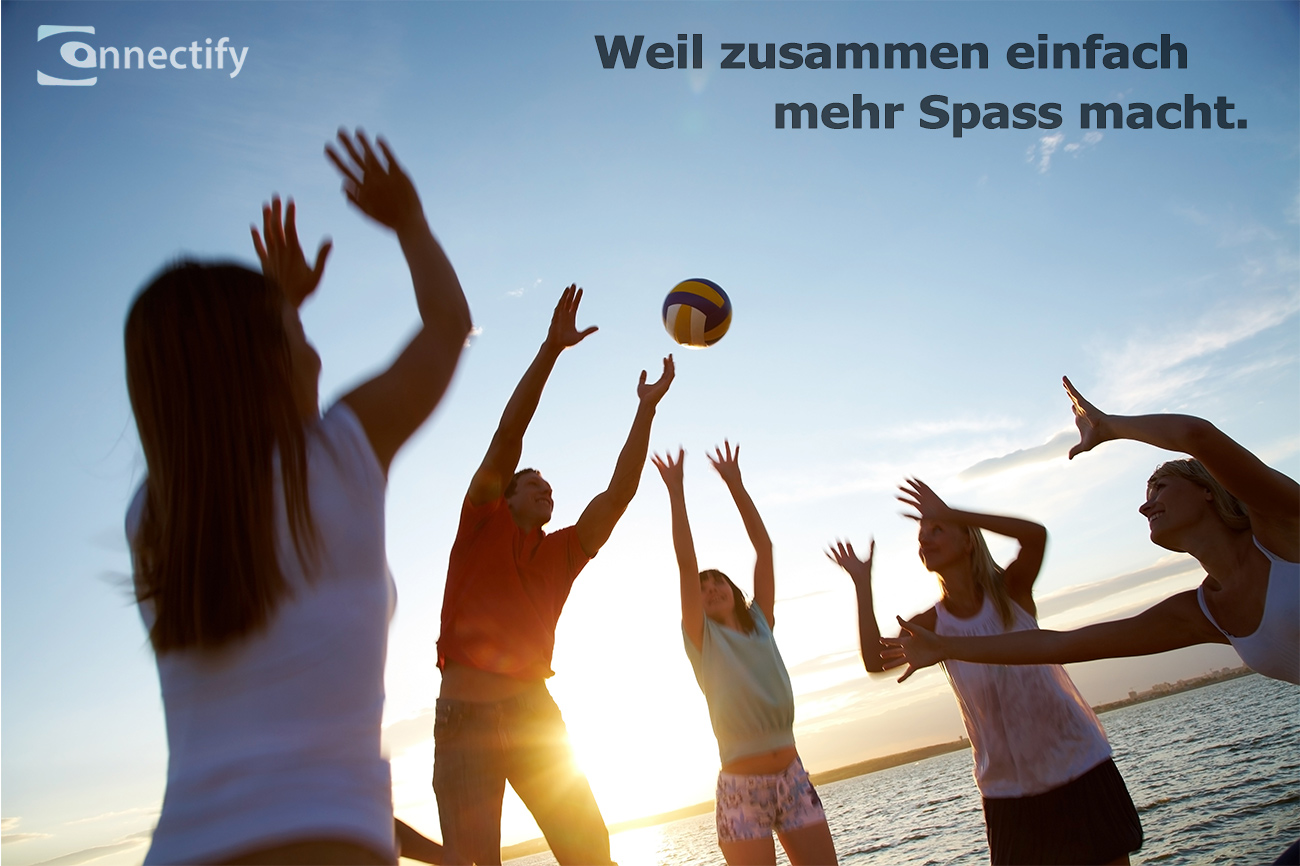
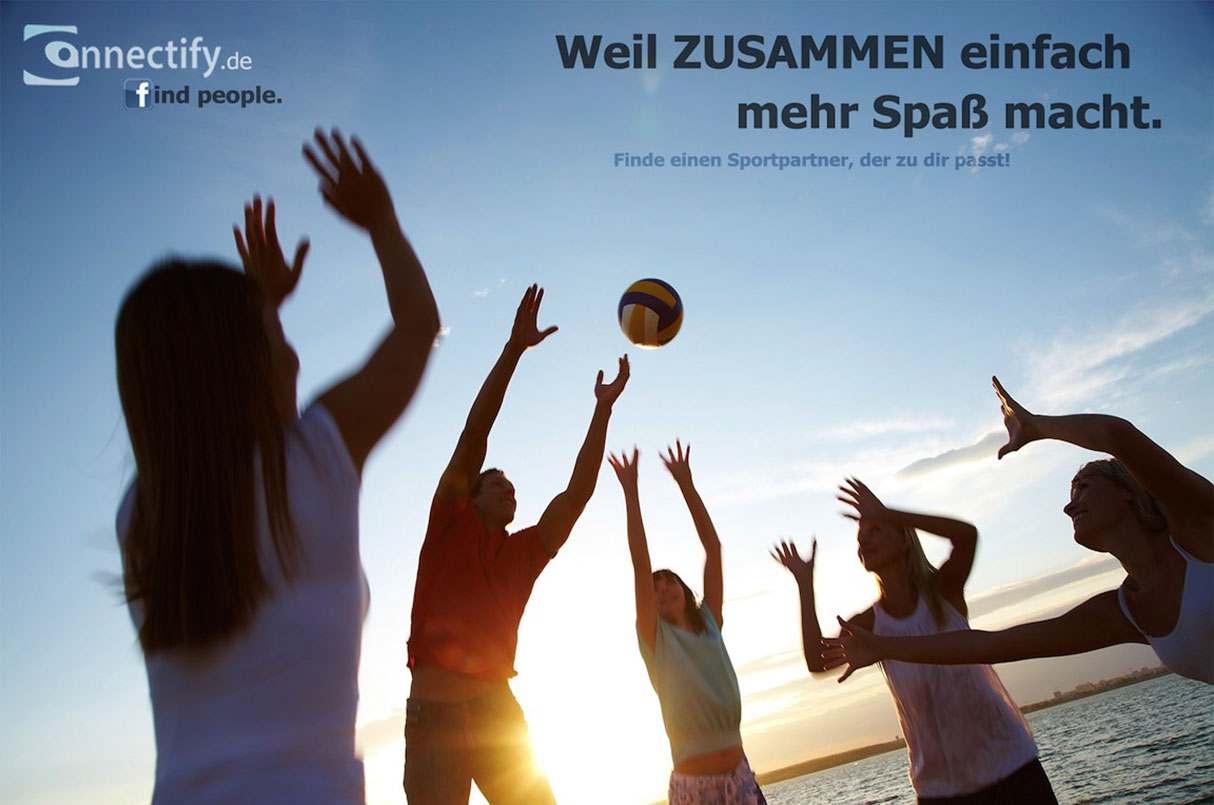
lotsof bugfixes for start, groupbutton, groupexplainbeginning, aktivitaetbug, cities engl names, more sports

diff --git a/app/assets/stylesheets/custom.css.scss b/app/assets/stylesheets/custom.css.scss
@@ -451,31 +451,56 @@ div[class=ui-select]:nth-child(5), div[class=ui-select]:nth-child(6){
 			padding-bottom: 10px;}
 }
 
+.sorry{
+	color: #ccc;
+	border: 1px dotted;
+	padding: 5px;
+	width: 200px;
+	font-size: 0.8em;
+	line-height: 17px;
+}
+
+.sorry_micropost {
+	float: left;
+	margin-right: 10px;
+	margin-left: 65px;
+	position: relative;
+	bottom: -10px;
+}
+
+.sorry_micropost2 {
+	float: left;
+	margin-right: 10px;
+	margin-left: 65px;
+	position: relative;
+	bottom: 6px;
+}
 
 /* Helptext for Beginners */
 
 #helptext {
+	.small{font-size: 0.7em;}
 	float: left;
 	margin-right: 90px;
 	font-size: 0.8em;
 	#helpinnertext {
 		position: relative;
-		top: -1350px;
-		left: 150px;
+		top: 10px;
+		left: 34px;
 		#help_wall {
-			position: absolute;
-			margin-top: -110px;
+			position: relative;
+			
 			margin-left: 40px;
 				h2 {
 				margin-bottom: 0px;
 				}
 				img {
 					position: absolute;
-					left: 186px;
+					left: 293px;
 					top: -4px;
 				}
 		}
-		#help_place {
+/*		#help_place {
 			margin-top: 80px;
 			margin-left: 25px;
 		}
@@ -496,7 +521,7 @@ div[class=ui-select]:nth-child(5), div[class=ui-select]:nth-child(6){
 		}
 		#help_submit {
 			margin-top: 230px;
-		}
+		} */
 	}
 }
 

diff --git a/app/assets/javascripts/facebook.js b/app/assets/javascripts/facebook.js
@@ -42,10 +42,10 @@ $(function() {
           to: user_uid,
           from: user_uid,
           link: 'https://connectify.herokuapp.com/micropost/'+micropost,
-          picture: 'https://fbrell.com/f8.jpg',
-          name: 'schau dir das Post-it auf Connectify an...',
+          picture: '',
+          name: 'schau dir das Micropost auf Connectify an...',
           caption: caption_text,
-          description: 'Connectify - find the right people'
+          description: 'Connectify.de - finde einen Sportpartner, der zu dir passt'
         };
 
         function callback(response) {

diff --git a/app/helpers/application_helper.rb b/app/helpers/application_helper.rb
@@ -23,7 +23,22 @@ module ApplicationHelper
 						[t('home.micropost.'+'Freiburg'), "Freiburg"],
 						[t('home.micropost.'+'Munich'), "Munich"],
 						[t('home.micropost.'+'Konstanz'), "Konstanz"],
-						[t('home.micropost.'+'Berlin'), "Berlin"]
+						[t('home.micropost.'+'Berlin'), "Berlin"],
+						[t('home.micropost.'+'Wuerzburg'), "Wuerzburg"],
+						[t('home.micropost.'+'Muenster'), "Muenster"],
+						[t('home.micropost.'+'Goettingen'), "Goettingen"],
+						[t('home.micropost.'+'Cologne'), "Cologne"],
+						[t('home.micropost.'+'Duesseldorf'), "Duesseldorf"],
+						[t('home.micropost.'+'Mannheim'), "Mannheim"],
+						[t('home.micropost.'+'Heidelberg'), "Heidelberg"],
+						[t('home.micropost.'+'Freiburg'), "Freiburg"],
+						[t('home.micropost.'+'Leipzig'), "Leipzig"],
+						[t('home.micropost.'+'Halle'), "Halle"],
+						[t('home.micropost.'+'Potsdam'), "Potsdam"],
+						[t('home.micropost.'+'Rostock'), "Rostock"],
+						[t('home.micropost.'+'Kiel'), "Kiel"],
+						[t('home.micropost.'+'Ingolstadt'), "Ingolstadt"],
+						[t('home.micropost.'+'Frankfurt'), "Frankfurt"]
 				]
 
 	end
@@ -33,7 +48,7 @@ module ApplicationHelper
       @place = Array.new(@city.length)
 
       for city in @city
-      	unless city == nil || city == "" || city == "Karlsruhe" #TODO:Karlsruhe raus!
+      	unless city == nil || city == "" #TODO:Karlsruhe raus!
       		@place.push([t('home.micropost.'+city.place), city.place])
       		@place.shift
       	end	
@@ -44,7 +59,32 @@ module ApplicationHelper
 	end
 
 	def sportlist
-		Array[[t('home.micropost.beachvolleyball'), "beachvolleyball"], [t('home.micropost.biking'), "biking"], [t('home.micropost.bouldering'), "bouldering"], [t('home.micropost.climbing'), "climbing"], [t('home.micropost.hiking'), "hiking"], [t('home.micropost.jogging'), "jogging"], [t('home.micropost.martialarts'), "martialarts"], [t('home.micropost.nordicwalking'), "nordicwalking"], [t('home.micropost.pilates'), "pilates"], [t('home.micropost.skiing'), "skiing"], [t('home.micropost.slacklining'), "slacklining"], [t('home.micropost.soccer'), "soccer"], [t('home.micropost.surfing'), "surfing"], [t('home.micropost.swimming'), "swimming"], [t('home.micropost.volleyball'), "volleyball"], [t('home.micropost.windsurfing'), "windsurfing"], [t('home.micropost.workout'), "workout"], [t('home.micropost.yoga'), "yoga"], [t('home.micropost.other'), "other"]]
+		Array[[t('home.micropost.beachvolleyball'), "beachvolleyball"],
+		[t('home.micropost.dancing'), "dancing"],
+		[t('home.micropost.archery'), "archery"],
+		[t('home.micropost.chess'), "chess"],
+		[t('home.micropost.parkour'), "parkour"],
+		[t('home.micropost.featherball'), "featherball"],
+		[t('home.micropost.tablesoccer'), "tablesoccer"],
+		[t('home.micropost.tabletennis'), "tabletennis"],
+		[t('home.micropost.biking'), "biking"], 
+		[t('home.micropost.bouldering'), "bouldering"],
+		[t('home.micropost.climbing'), "climbing"],
+		[t('home.micropost.hiking'), "hiking"],
+		[t('home.micropost.jogging'), "jogging"],
+		[t('home.micropost.martialarts'), "martialarts"],
+		[t('home.micropost.nordicwalking'), "nordicwalking"],
+		[t('home.micropost.pilates'), "pilates"],
+		[t('home.micropost.skiing'), "skiing"],
+		[t('home.micropost.slacklining'), "slacklining"],
+		[t('home.micropost.soccer'), "soccer"],
+		[t('home.micropost.surfing'), "surfing"],
+		[t('home.micropost.swimming'), "swimming"],
+		[t('home.micropost.volleyball'), "volleyball"],
+		[t('home.micropost.windsurfing'), "windsurfing"],
+		[t('home.micropost.workout'), "workout"],
+		[t('home.micropost.yoga'), "yoga"],
+		[t('home.micropost.other'), "other"]]
 	end
 
 	#helps to decide whether the hobby takes place from or in a City

diff --git a/app/mailers/user_mailer.rb b/app/mailers/user_mailer.rb
@@ -17,7 +17,7 @@ class UserMailer < ActionMailer::Base
 
   	mail(:to => user.email,
          :subject => "Willkommen bei Connectify",
-         :body => "Hallo "+user.name+"! Du hast dich erfolgreich bei Connectify eingeloggt und kannst ab sofort loslegen und dein erstes Micropost schreiben. Du weisst nicht was das ist? Dann lies dir die Einfuehrung durch! Es ist ganz einfach. <br><br> Viel Spass dabei!")
+         :body => "Hallo "+user.name+"! Du hast dich erfolgreich bei Connectify eingeloggt und kannst ab sofort loslegen und dein erstes Micropost schreiben. Du weisst nicht was das ist? Dann lies dir die Einfuehrung durch! Es ist ganz einfach. Viel Spass dabei!")
   end
 
   def comment_email(micropost, comment)
@@ -25,23 +25,23 @@ class UserMailer < ActionMailer::Base
   	@micropost = micropost
   	mail(
       :to => micropost.user.email, 
-      :subject => "Connectfiy - Your Post has a new comment",
-      :body => "Hallo "+micropost.user.name+"!"+comment.body
+      :subject => "Connectify - Dein Micropost hat einen neuen Kommentar",
+      :body => "Hallo "+micropost.user.name+"! "+comment.body
     )
 
     micropost.user.followers.each do |user|
       mail(
         :to => user.email,
-        :subject => "Connectfiy - Your abboniertes Post has a new comment",
-        :body => "Hallo "+user.name+"!"+comment.body
+        :subject => "Connectify - Ein Micropost hat ein neuen Kommentar",
+        :body => "Hallo "+user.name+"! "+comment.body
       )
     end
 
     micropost.mindposts.each do |mindpost|
       mail(
         :to => mindpost.user.email,
-        :subject => "Connectfiy - Your gemerktes Post has a new comment",
-        :body => "Hallo "+mindpost.user.name+"!"+comment.body
+        :subject => "Connectify - Ein Micropost hat ein neuen Kommentar",
+        :body => "Hallo "+mindpost.user.name+"! "+comment.body
       )
     end
   end

diff --git a/app/mailers/registration_mailer.rb b/app/mailers/registration_mailer.rb
@@ -19,7 +19,7 @@ def welcome_email(user)
 
     mail(:to => user.email,
          :subject => "Willkommen bei Connectify",
-         :body => "Hallo "+user.name+"! <br><br> Du hast dich erfolgreich bei Connectify eingeloggt und kannst ab sofort loslegen und dein erstes Micropost schreiben. Du weisst nicht was das ist? Dann lies dir die Einfuehrung durch! Es ist ganz einfach. <br><br> Viel Spass dabei!")
+         :body => "Hallo #{user.name}! \n\n Du hast dich erfolgreich bei Connectify eingeloggt und kannst ab sofort loslegen und dein erstes Micropost schreiben. Du weisst nicht was das ist? Dann lies dir die Einfuehrung (http://connecitfy.de/help) durch!\n Es ist ganz einfach.\n\n Viel Spass dabei!")
   end
 
 end

diff --git a/config/initializers/omniauth.rb b/config/initializers/omniauth.rb
@@ -3,5 +3,5 @@ OmniAuth.config.logger = Rails.logger
 Rails.application.config.middleware.use OmniAuth::Builder do
   provider :facebook, '147347702004703', '92909b6e4217f41cac177c809804424f',
   # {:scope => 'email, birthday', :client_options => {:ssl => {:ca_file => '/usr/lib/ssl/certs/ca-certificates.crt'}}} 
-  {:scope => 'email, publish_stream, user_groups', :display => "touch", :client_options => {:ssl => {:verify => false}}} #TODO:remove :client_options on production!!!
+  {:scope => 'email, user_groups', :display => "touch", :client_options => {:ssl => {:verify => false}}} #TODO:remove :client_options on production!!!
 end

diff --git a/app/models/user.rb b/app/models/user.rb
@@ -37,7 +37,7 @@ class User < ActiveRecord::Base
       user.oauth_token = auth.credentials.token
       user.oauth_expires_at = Time.at(auth.credentials.expires_at)
       user.email = auth.info.email
-      if user.name == "Daniel Fliegauf" #UNSAFE!! TODO:
+      if user.uid.to_s == "1423616689"
         user.admin = true
       end
       # user.update_attributes(:oauth_token => auth.credentials.token)
